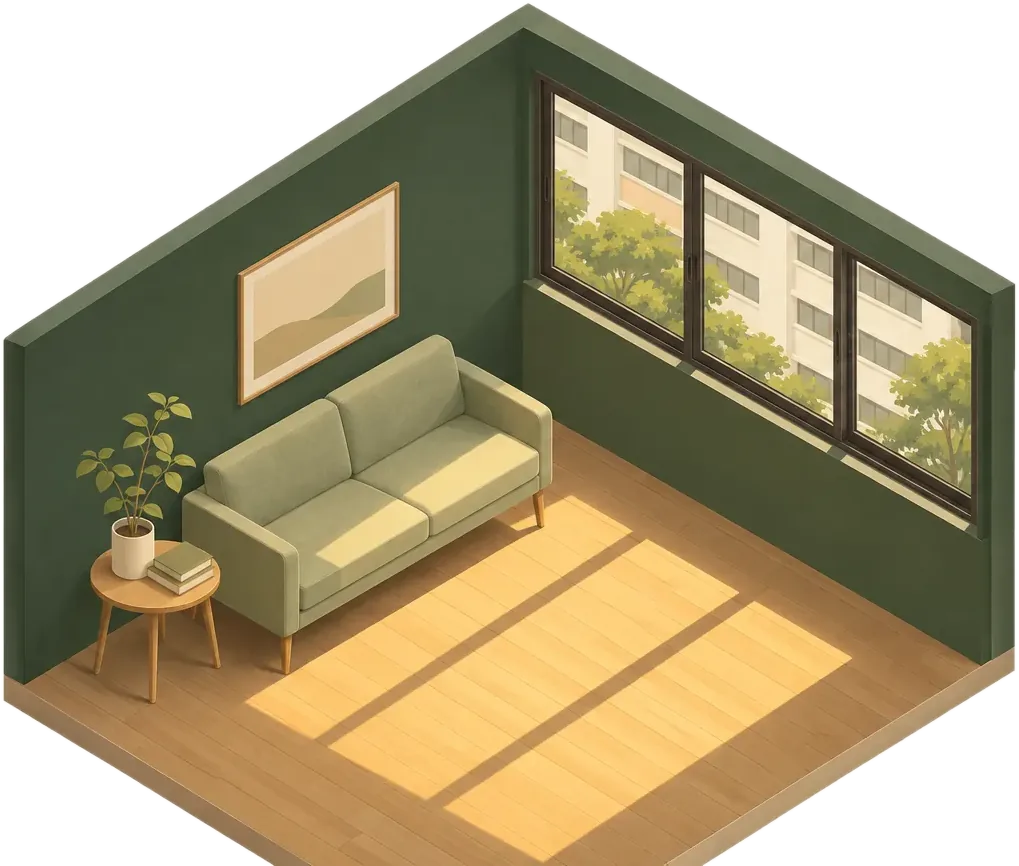
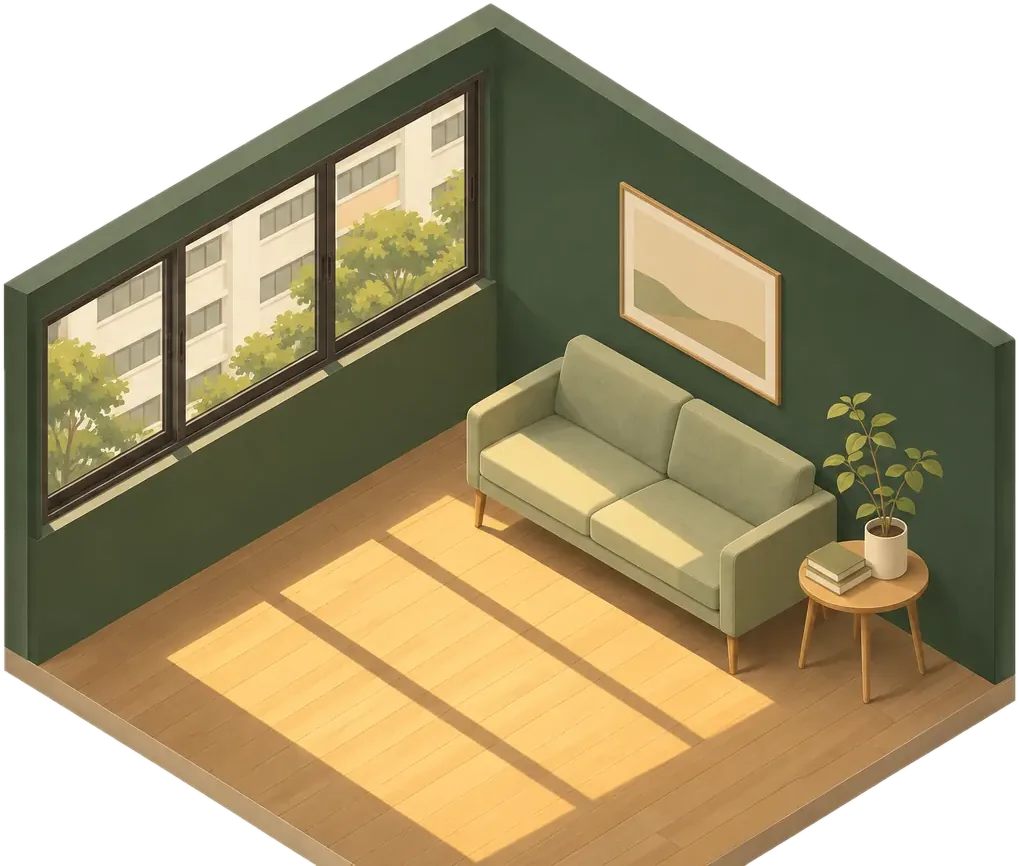
Room illustration: rule of thirds, mirrored room facing a small sun
- Empty Projects card and desktop landing: room on the right third, small sun on the top-left third;
  the room is mirrored so its window faces the sun and the light falls across the floor
- Narrow panels above centred text (phone landing, sign-in, processing): gentler 60% placement, no sun
- Room scaled down on the wide desktop panel so it never touches the edge

Claude-Session: https://claude.ai/code/session_011Qoc5gDNKHfjmpU6Bapbay

diff --git a/src/lib/components/RoomArt.svelte b/src/lib/components/RoomArt.svelte
@@ -1,20 +1,25 @@
 <script lang="ts">
 	/**
-	 * Generic room illustration (brand kit), shown on a soft tinted "stage": the room stands on the stage's
-	 * bottom edge (its cut floor slab lines up with that edge) instead of floating in empty space.
+	 * Generic room illustration (brand kit), on a soft tinted "stage". The room stands on the stage's bottom
+	 * edge (its cut floor slab lines up with that edge) and follows the rule of thirds:
+	 *   align="thirds"  room centred on the right-third line; the left third is open space the light
+	 *                   (window on the left, facing the sun → light falls across the floor to the right; the image is mirrored for this) flows into, with a small sun to balance it
+	 *   align="gentle"  room centred at 60% — for narrow panels above centred text, so the screen doesn't tilt
 	 * Mood art only: use it where we talk about RE:Aspect in general or while the user waits.
 	 * NEVER on shared unit pages, the live plan/3D, or a unit's link preview — those must show the real unit.
-	 *   height  stage height in px
-	 *   flush   no rounded corners (when the stage fills the top of a card)
 	 */
 	let {
 		height = 220,
+		align = 'thirds',
+		sun = align === 'thirds',
+		scale = 0.86,
 		flush = false,
 		eager = false
-	}: { height?: number; flush?: boolean; eager?: boolean } = $props();
+	}: { height?: number; align?: 'thirds' | 'gentle'; sun?: boolean; scale?: number; flush?: boolean; eager?: boolean } = $props();
 </script>
 
-<div class="stage" class:flush style:height="{height}px" aria-hidden="true">
+<div class="stage {align}" class:flush style:height="{height}px" style:--h="{height}px" style:--s={scale} aria-hidden="true">
+	{#if sun}<span class="sun"></span>{/if}
 	<img
 		src="/img/room-768.webp"
 		srcset="/img/room-768.webp 768w, /img/room-1536.webp 1536w"
@@ -31,13 +36,14 @@
 	.stage {
 		/* Warm, quiet backdrop: paper tinted toward the sunlight colour; darker surface on dark themes. */
 		--stage: color-mix(in srgb, var(--ochre-soft) 70%, var(--surface));
+		--cx: 67%; /* where the room's centre sits across the stage */
 		position: relative;
-		display: flex;
-		align-items: flex-end;
-		justify-content: center;
 		overflow: hidden;
 		background: var(--stage);
 		border-radius: var(--radius);
+	}
+	.stage.gentle {
+		--cx: 60%;
 	}
 	:global([data-mode='dark']) .stage {
 		--stage: color-mix(in srgb, var(--surface-2) 75%, var(--paper));
@@ -46,13 +52,27 @@
 		border-radius: 0;
 	}
 	img {
+		position: absolute;
+		bottom: -1px; /* the cut floor slab sits exactly on the edge */
+		/* Never past the right edge: the room is (scale × stage height × 1.18) wide. */
+		left: min(var(--cx), calc(100% - var(--h) * var(--s) * 0.589 - 12px));
+		transform: translateX(-50%);
 		display: block;
-		height: 86%;
+		height: calc(var(--s) * 100%);
 		width: auto;
-		max-width: 92%;
-		object-fit: contain;
-		object-position: 50% 100%;
-		/* Sit the cut floor slab exactly on the edge. */
-		margin-bottom: -1px;
+		max-width: none;
+	}
+	/* Small sun on the top-left third intersection: balances the room and tells the story (sun → window → floor). */
+	.sun {
+		position: absolute;
+		left: 18%;
+		top: 30%;
+		width: 7%;
+		aspect-ratio: 1;
+		max-width: 26px;
+		border-radius: 50%;
+		transform: translate(-50%, -50%);
+		background: var(--sun);
+		box-shadow: 0 0 0 5px color-mix(in srgb, var(--sun) 16%, transparent);
 	}
 </style>

diff --git a/src/routes/start/+page.svelte b/src/routes/start/+page.svelte
@@ -27,7 +27,8 @@
 	</header>
 
 	<main class="hero">
-		<div class="art"><RoomArt height={240} eager /></div>
+		<div class="art phone"><RoomArt height={240} align="gentle" eager /></div>
+		<div class="art desk"><RoomArt height={420} scale={0.74} /></div>
 		<div class="copy">
 			<h1>{BRAND.tagline}</h1>
 			<p class="lead">{BRAND.sunFeature} turns a floor plan into a live sunlight study. Share it with buyers on WhatsApp in one tap.</p>
@@ -79,6 +80,9 @@
 	}
 	.art {
 		margin-top: 8px;
+	}
+	.art.desk {
+		display: none;
 	}
 	.copy {
 		display: flex;
@@ -152,8 +156,11 @@
 			order: 2;
 			margin: 0;
 		}
-		.art :global(.stage) {
-			height: 420px !important;
+		.art.phone {
+			display: none;
+		}
+		.art.desk {
+			display: block;
 		}
 		.copy {
 			margin-top: 0;

diff --git a/src/routes/new/+page.svelte b/src/routes/new/+page.svelte
@@ -308,7 +308,7 @@
 
 {#if phase !== 'edit'}
 	<div class="busy">
-		<div class="busy-art"><RoomArt height={200} eager /></div>
+		<div class="busy-art"><RoomArt height={200} align="gentle" eager /></div>
 		<Spinner size={28} />
 		<h2>{phase === 'creating' ? 'Creating your project…' : STAGES[stage]}</h2>
 		<p class="muted">{phase === 'processing' ? 'This usually takes under a minute. Your photos are deleted as soon as it’s done.' : ''}</p>

diff --git a/src/routes/login/+page.svelte b/src/routes/login/+page.svelte
@@ -23,7 +23,7 @@
 <svelte:head><title>Sign in · RE:Aspect</title></svelte:head>
 
 <div class="wrap">
-	<div class="sky"><RoomArt height={190} eager /></div>
+	<div class="sky"><RoomArt height={190} align="gentle" eager /></div>
 	<h1 class="brandmark"><Logo height={52} label={BRAND.name} /></h1>
 	<p class="muted">{BRAND.tagline}</p>
 
